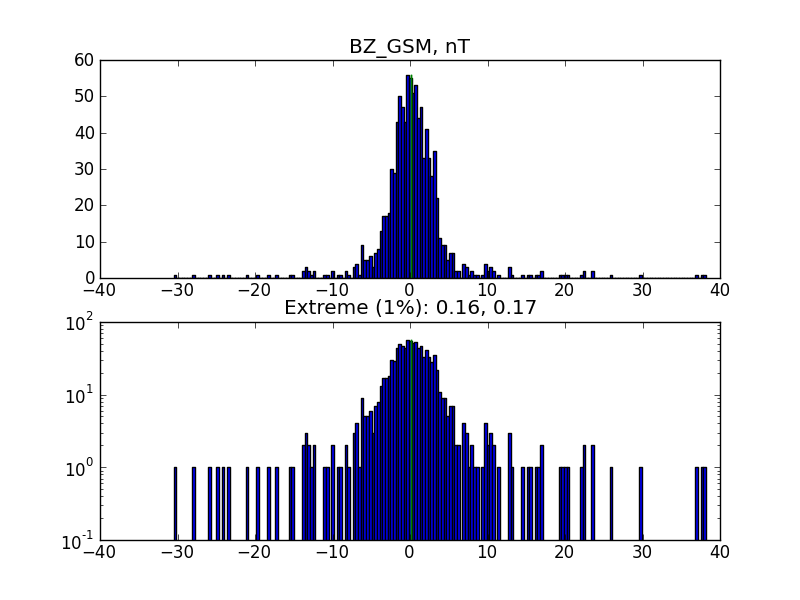
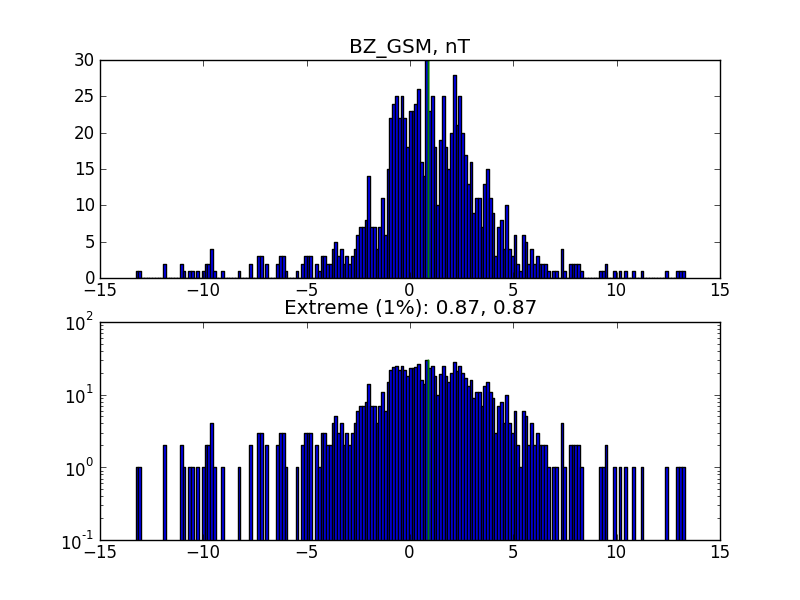
pressure extremes

diff --git a/hist/plot.py b/hist/plot.py
@@ -46,12 +46,12 @@ def plotone(row, file, title, fraction):
 
 def plotall(data, suffix, fraction):
 	print 'Loaded.'
-	plotone(data[:,2], "pressure"+	suffix+".png", "pressure, nP",	fraction)
-	plotone(data[:,3], "speed"+	suffix+".png", "speed, km/s",	fraction)
-	plotone(data[:,4], "density"+	suffix+".png", "proton density",fraction)
-	plotone(data[:,5], "bz_gsm"+	suffix+".png", "BZ_GSM, nT",	fraction)
-	plotone(data[:,6], "by_gsm"+	suffix+".png", "BY_GSM, nT",	fraction)
-	plotone(data[:,7], "sym_h"+	suffix+".png", "SYM-H, nT",	fraction)
+	# plotone(data[:,2], "pressure"+	suffix+".png", "pressure, nP",	fraction)
+	# plotone(data[:,3], "speed"+	suffix+".png", "speed, km/s",	fraction)
+	# plotone(data[:,4], "density"+	suffix+".png", "proton density",fraction)
+	# plotone(data[:,5], "bz_gsm"+	suffix+".png", "BZ_GSM, nT",	fraction)
+	# plotone(data[:,6], "by_gsm"+	suffix+".png", "BY_GSM, nT",	fraction)
+	# plotone(data[:,7], "sym_h"+	suffix+".png", "SYM-H, nT",	fraction)
 	plotone(data[:,8], "W1_"+	suffix+".png", "W1",		fraction)
 	plotone(data[:,9], "W2_"+	suffix+".png", "W2",		fraction)
 	plotone(data[:,10],"W3_"+	suffix+".png", "W3",		fraction)
@@ -59,7 +59,7 @@ def plotall(data, suffix, fraction):
 	plotone(data[:,12],"W5_"+	suffix+".png", "W5",		fraction)
 	plotone(data[:,13],"W6_"+	suffix+".png", "W6",		fraction)
 
-data = np.genfromtxt("../data2/omni_1h.dat")
-plotall(data, "", 100)
+# data = np.genfromtxt("../data2/omni_1h.dat")
+# plotall(data, "", 100)
 data = np.genfromtxt("../find_extreme/data.dat")
 plotall(data, "2", 2)
